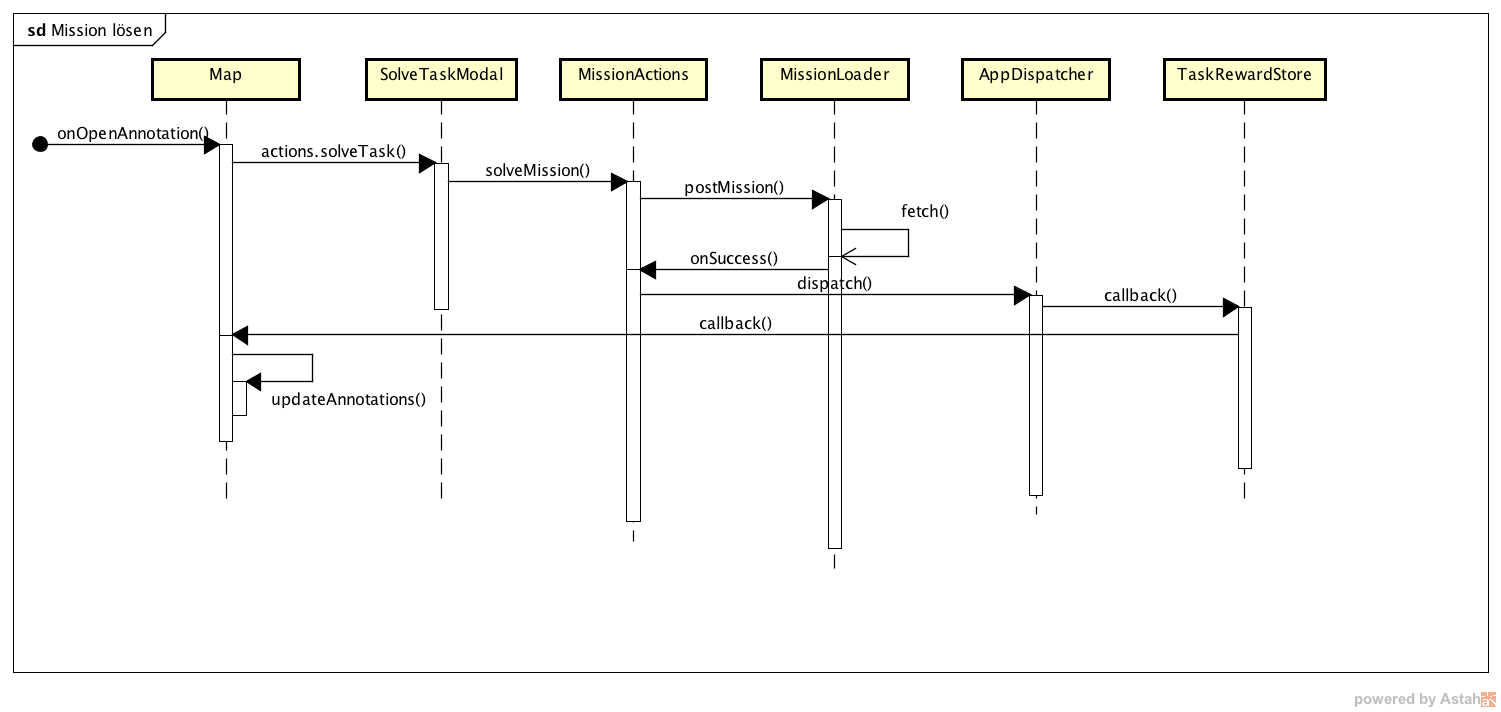
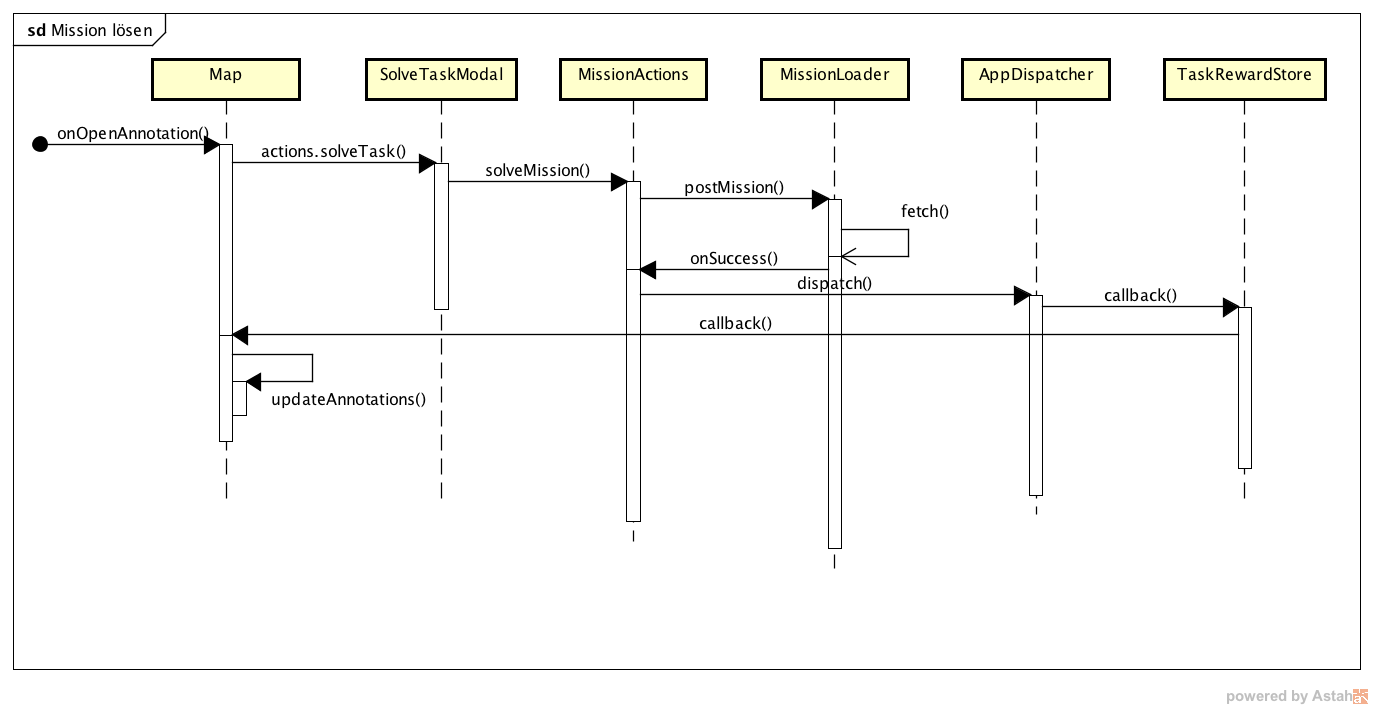
add chapter Sequenzdiagramme

Changed region(s): [[0.0, 0.031, 0.9789, 0.5896], [0.8871, 0.9619, 1.0, 0.9929], [0.5506, 0.7447, 0.5812, 0.7757]]

diff --git a/__Documentation/body/projektdokumentation/sequenzdiagramme.tex b/__Documentation/body/projektdokumentation/sequenzdiagramme.tex
@@ -1,0 +1,17 @@
+\label{pd-sequenzdiagramme}
+\section{Sequenzdiagramme}
+\subsection{Starten der App}
+\begin{figure}[H]
+ 	\centering
+ 	\includegraphics[width=\textwidth]{images/projektdokumentation/sd-app-start.png}
+ 	\caption{Bevor Daten geladen und Informationen dargestellt werden können, muss der Benutzer autorisiert und lokalisiert sein.}
+ 	\label{image-sd-start-app}
+\end{figure}
+
+\subsection{Mission lösen}
+\begin{figure}[H]
+ 	\centering
+ 	\includegraphics[width=\textwidth]{images/projektdokumentation/sd-mission-loesen.png}
+ 	\caption{Lösen einer Mission und Anzeigen der Belohnung}
+ 	\label{image-sd-solve-mission}
+\end{figure}
